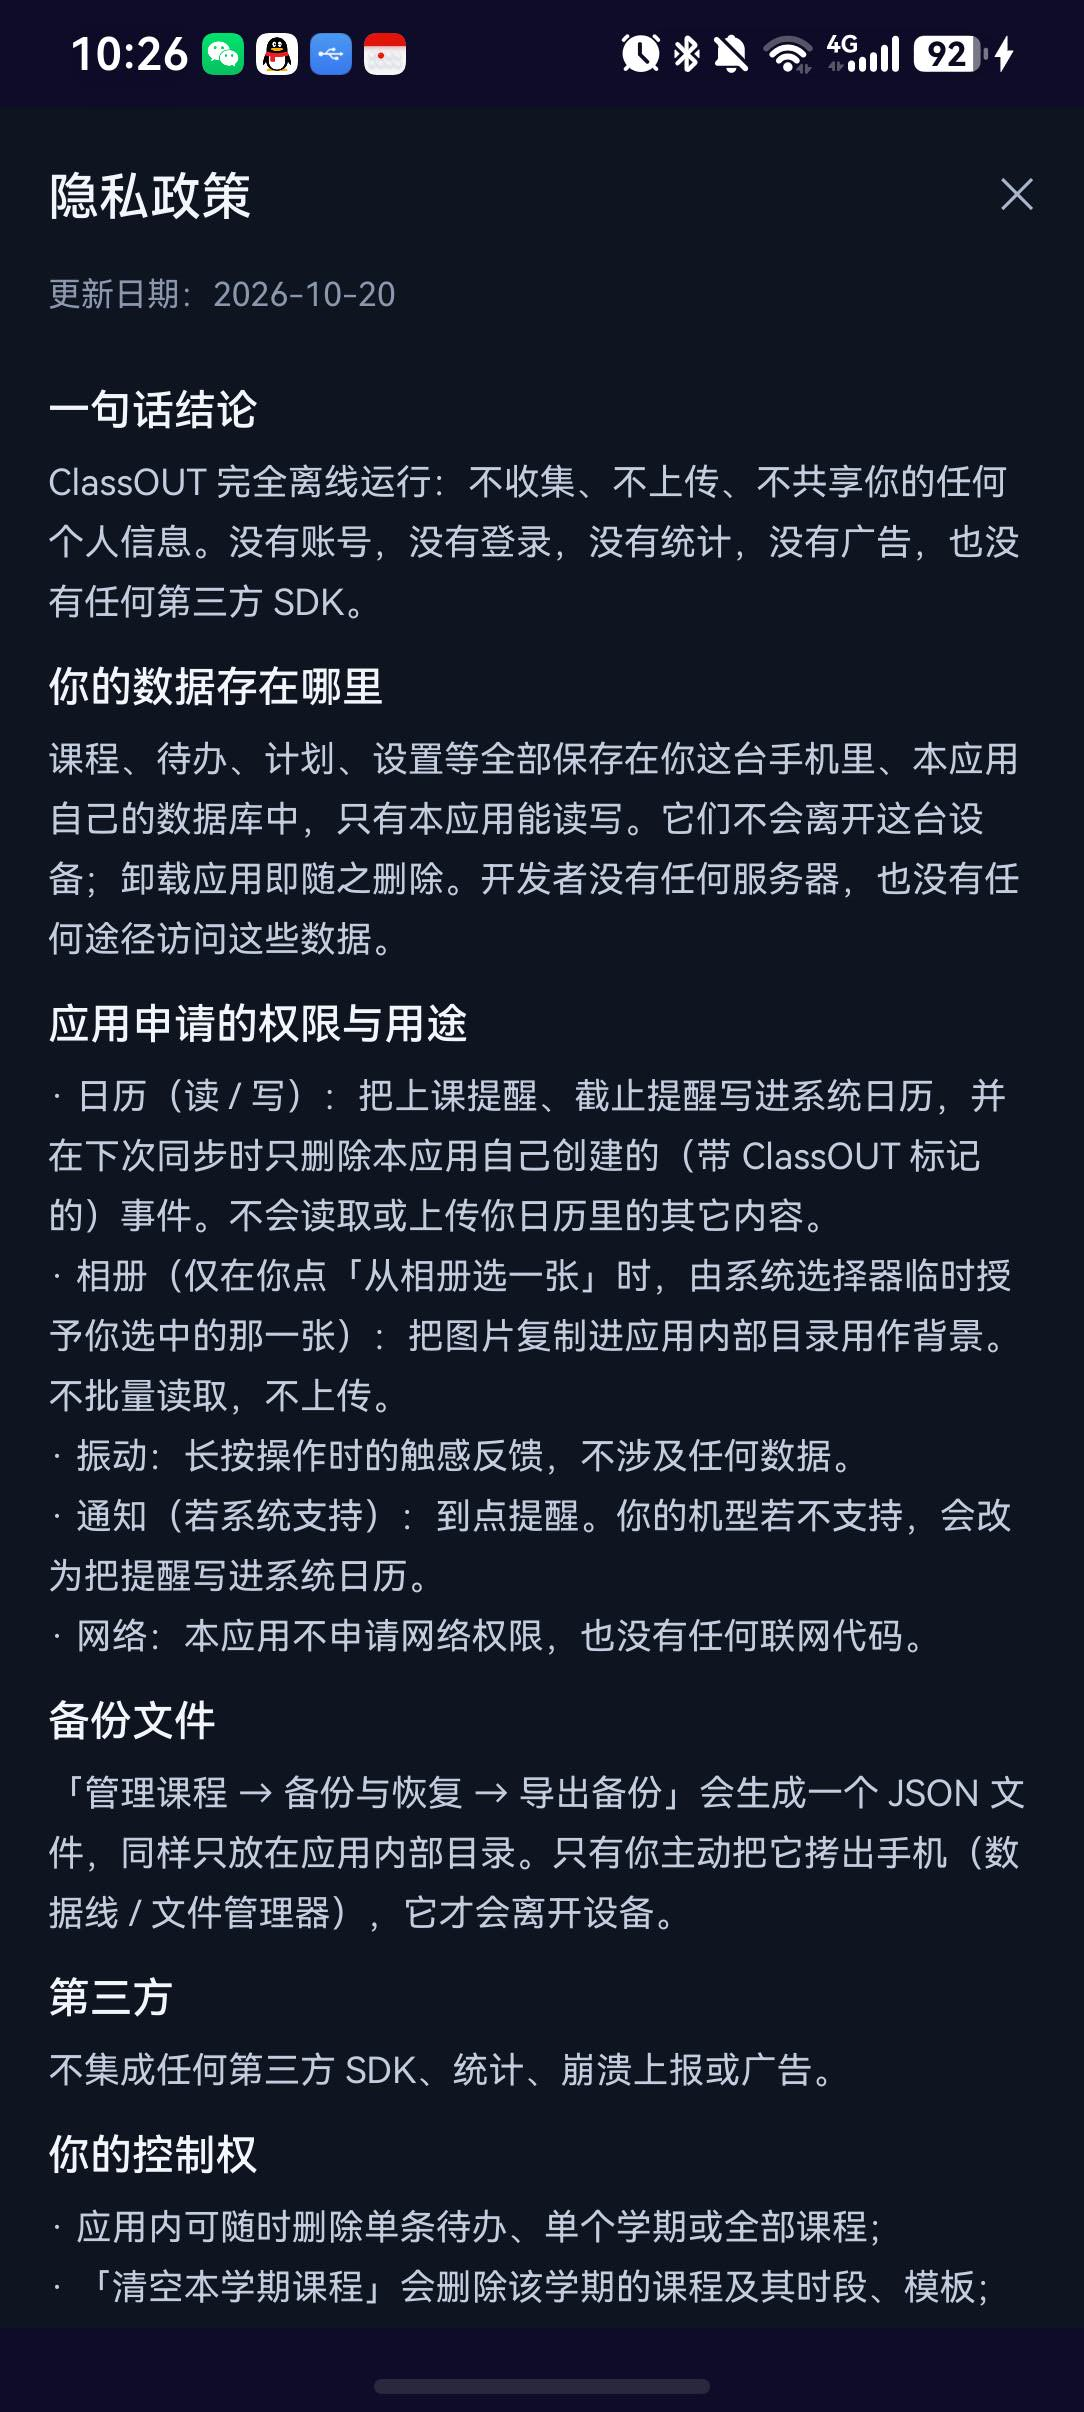
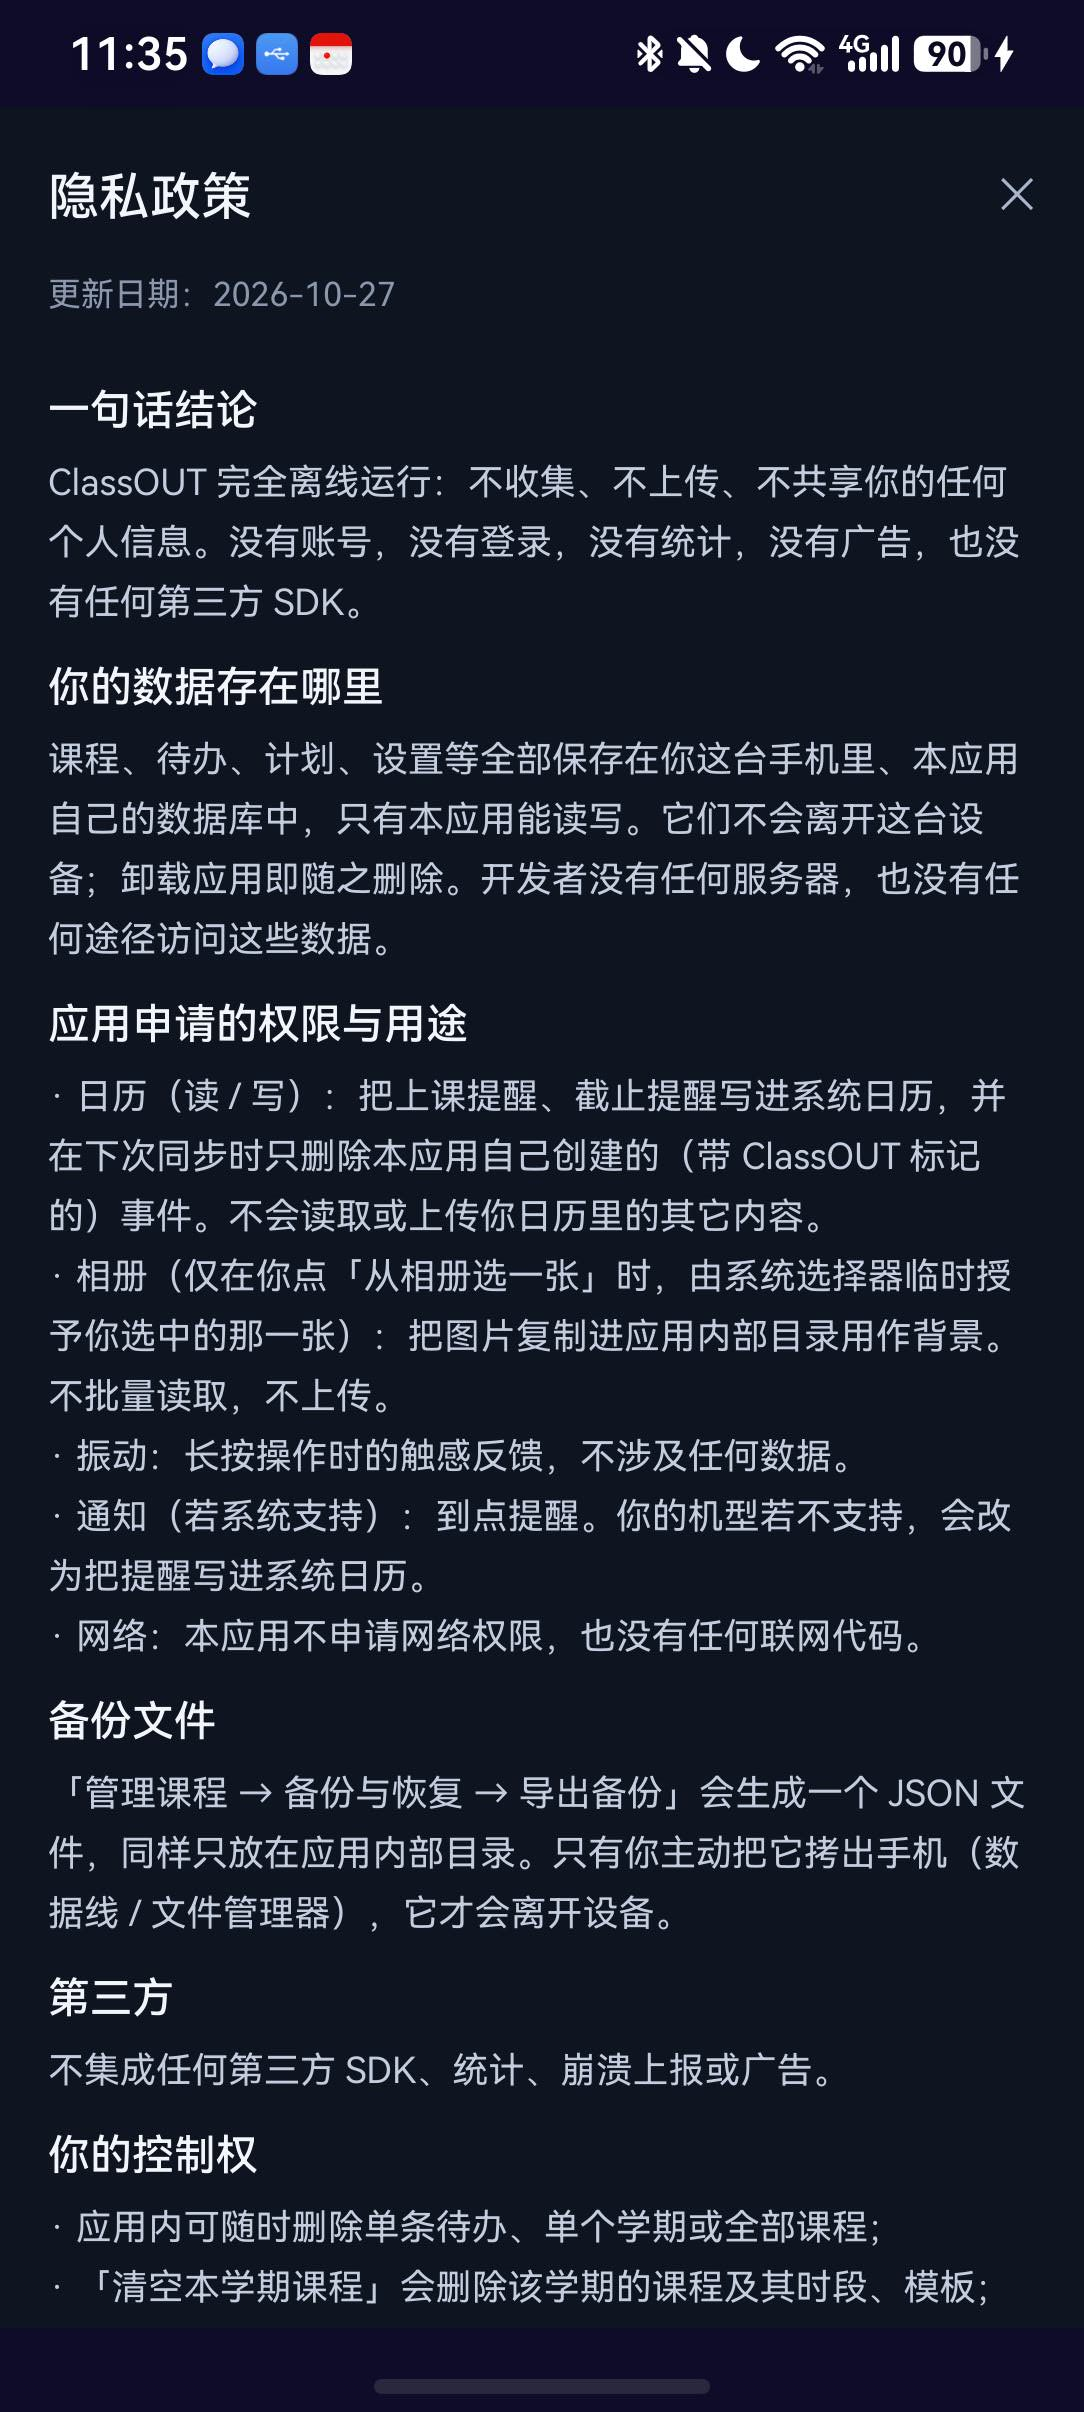
隐私政策对齐 AGC 主体（开发者=何麒）+ 补「撤回同意与投诉」，重拍截图
- PRIVACY.md / Privacy.ets：开发者 Chemica_ → 何麒（与 AGC 一致）；新增「撤回同意与投诉」
  （清除数据/卸载即撤回、导出 JSON 路径、投诉邮箱 15 个工作日）；更新日期 2026-10-27
- 首启弹窗脚注改成「开发者 何麒」；政策版本变化会重新征求同意（真机已验：重弹→同意→数据完好）
- 重拍 docs/manual/08-privacy.jpg、10-consent.jpg；重出 9:16 商店截图
- AGC-FILL.md：两个硬门槛解决/记录；备案=单机应用无需备案号；日历权限保持启动时申请（用户拍板）
- HANDOFF §134

Changed region(s): [[0.0913, 0.0, 0.3958, 0.0311], [0.5784, 0.0, 0.7915, 0.0311]]

diff --git a/AGC-FILL.md b/AGC-FILL.md
@@ -20,7 +20,7 @@
 | 1 | **发布包**（release 签名 .app） | ❌ 还没有发布证书/Profile | AGC 实名过了 → 申请**发布证书 + 发布 Profile** → 放进 `signing/release/` → 我跑 `sign-release.sh` |
 | 2 | **截图 9:16 / 1080×1920** | ✅ 已生成 `dist/store/phone-9x16/`（10 张，1080×1920，170–360 KB） | 直接上传，建议挑 6 张（见 §3.4） |
 | 3 | **应用版权证书**（手机必选） | ❌ 软著还在审 | 拿到证书后转成 **JPG/PNG/BMP**（AGC 不收 PDF），最多 10 张、每张 ≤15MB |
-| 4 | **隐私政策内容** | ⚠ 缺两项 | ① 政策里的开发者名称要与 AGC 主体一致；② 补「撤回同意 / 投诉渠道」条款（50104 §7.3 / §7.6） |
+| 4 | **隐私政策内容** | ✅ 已改好（2026-10-27） | 开发者改为 **何麒**（与 AGC 一致）；新增「撤回同意与投诉」一节（清除数据/卸载即撤回、导出 JSON、投诉邮箱 15 个工作日回复） |
 
 > 顺带纠正一件旧账：**我们这种没有网络权限的单机应用，不需要 APP 备案号**。
 > 50130 写明「单机应用 = 未通过连接公共互联网提供互联网信息服务的移动应用」，
@@ -98,13 +98,10 @@
 - 隐私政策：`https://gitee.com/the-person-on-the-tree/classout/blob/master/PRIVACY.md`
 - 隐私权利：`https://gitee.com/the-person-on-the-tree/classout/blob/master/PRIVACY_RIGHTS.md`
 - 用户协议：选填，可先空着；要的话可以后面用 AGC 的协议服务生成一个。
-- ⚠ 提交前必须做的两处政策修正（见 §0 #4）：
-  1. **开发者名称**：现在写的是「Chemica_」，AGC 主体显示「何麒」——
-     审核会比对「隐私政策里的开发者名称 vs AGC 开发者名称」，不一致直接驳回。
-     需要你确认 AGC 上"开发者"显示的是 **Chemica** 还是 **何麒**，我改成一致的那个
-     （两个都写也行：`开发者：何麒（Chemica）`）。
-  2. **撤回同意 / 投诉渠道**：政策里要有「怎么撤回同意、怎么投诉」的说明（50104 §7.3、§7.6）。
-     我准备加一节：卸载或在系统设置清除应用数据即可重置同意状态，投诉走 `harvapps@qq.com`。
+- ✅ 政策内容已按 50104 §7.1 / §7.3 / §7.6 改好（2026-10-27）：
+  - 开发者：**何麒**（与 AGC 开发者名称一致，审核会比对这一项）；
+  - 新增「撤回同意与投诉」：清除应用数据 / 卸载即撤回；导出 JSON 的路径；投诉邮箱与 15 个工作日时限；
+  - 政策更新日期 2026-10-27（同意状态按版本存，老用户会重新被问一次）。
 
 ### 2.8 隐私标签信息录入
 
@@ -157,11 +154,11 @@
 | 1.9 | 截图 ≥3 张、不重复/不模糊/不拉伸 | ✅ 新 9:16 套图 |
 | 1.14 | 介绍不得用"官方/权威/推荐/精品"、不得写没有的功能 | ✅ 文案已避开 |
 | 1.19 | 应用信息不得展示真实个人信息 | ✅ 截图是演练沙箱数据 |
-| 7.1 | 隐私政策含真实开发者信息，且与应用内一致 | ⚠ 开发者名称待统一 |
-| 7.3 | 政策里要有撤销同意/删除/查阅复制/投诉渠道 | ⚠ 待补"撤回同意" |
+| 7.1 | 隐私政策含真实开发者信息，且与应用内一致 | ✅ 开发者：何麒 |
+| 7.3 | 政策里要有撤销同意/删除/查阅复制/投诉渠道 | ✅ 已补「撤回同意与投诉」 |
 | 7.5 | 隐私弹窗要有明确的**同意**和**拒绝** | ✅「同意并继续 / 不同意并退出」 |
 | 7.5 三要素 | 未同意前不得读取个人信息/申请权限 | ✅ 已加首启闸门 |
-| 7.17 | 权限最小化、动态申请、拒绝后不退出、不循环弹窗 | ⚠ 日历权限在启动时申请，见下 |
+| 7.17 | 权限最小化、动态申请、拒绝后不退出、不循环弹窗 | ⚠ 日历权限在启动时申请；**用户已决定保持现状**（弹窗里已写明用途），见下 |
 | 7.2 | 第三方 SDK 逐一公示 | ✅ 没有 SDK |
 
 ### 风险：日历权限在启动时申请
@@ -169,19 +166,16 @@
 50104 §7.17 合规要求 4/5 说「未见对应功能就提前申请权限」不合规。我们的日历权限是在
 同意隐私政策后、启动流程里（同步提醒）申请的，用户还没主动点过"同步"。
 
-两条路：
-1. **保持现状**：弹窗里已经写明"为了把提醒写进系统日历会申请日历读写权限"，
-   且课表本来就是提醒功能的一部分 —— 多数审核能过。
-2. **改成懒申请**：首次进入「设置 → 日历同步」或点页头「⟳ 立即与日历同步」时才申请；
-   启动时静默跳过（提醒要等用户点一次才写）。更稳，但用户可能一直不点、提醒不生效。
-
-要改的话说一声，改动只涉及 `Index.init()` 里的 `syncReminders` 调用与设置页入口。
+**决定（2026-10-27）：保持现状。** 理由：隐私弹窗已明确写出"为了把提醒写进系统日历，
+会申请日历读写权限"，且课表提醒是应用的核心功能；拒绝授权后应用仍可正常使用（只是不写提醒）。
+若审核按 7.17 提出异议，再改成"用户点『立即与日历同步』时才申请"（改动只涉及
+`Index.init()` 里的 `syncReminders` 与设置页入口）。
 
 ---
 
 ## 4. 还需要你提供的
 
-1. AGC 上"开发者"显示的是 **Chemica** 还是 **何麒**？（决定隐私政策里写哪个）
-2. 日历权限：保持启动时申请，还是改成"用户点同步时才申请"？
+1. ~~AGC 开发者名称~~ → ✅ 已确认 **何麒**，政策已改。
+2. ~~日历权限策略~~ → ✅ 已决定**保持现状**。
 3. 发布证书 + 发布 Profile（等 AGC 实名通过后下载，放 `signing/release/`）。
-4. 软著/电子版权证书（等审核通过）。
+4. 软著/电子版权证书（等审核通过；应用版权证书只收 JPG/PNG/BMP）。

diff --git a/STORE.md b/STORE.md
@@ -25,7 +25,7 @@
 | 2 | 上架前 | 唯一包名 `com.chemica.classout` | ✅ | `AppScope/app.json5` 的 `bundleName`；**不能再改** |
 | 3 | 上架前 | 应用图标 1024 / 216 | ✅ | `docs/store/app-icon-1024.png`、`app-icon-216.png`（`python3 tools/make-icon.py` 可重生成） |
 | 4 | 上架前 | 应用包（.app ≤ 4GB） | ⚠ | 已能构建：`build/outputs/default/ClassOUT-default-unsigned.app`（388 KB，**未签名**）；见 §5 |
-| 5 | 上架前 | 隐私政策网址（可访问） | ✅ | <https://gitee.com/the-person-on-the-tree/classout/blob/master/PRIVACY.md>（公网可开，已验证 200） |
+| 5 | 上架前 | 隐私政策网址（可访问） | ✅ | <https://gitee.com/the-person-on-the-tree/classout/blob/master/PRIVACY.md>（公网 200；**开发者已改为何麒**，与 AGC 一致；含「撤回同意与投诉」，2026-10-27） |
 | 6 | 上架前 | 隐私权利网址（删除/导出入口） | ✅ | <https://gitee.com/the-person-on-the-tree/classout/blob/master/PRIVACY_RIGHTS.md>（本轮新增，200） |
 | 7 | 上架前 | 权限说明 / 隐私标签 | ✅ | 4 个权限的用途都在 `entry/src/main/module.json5` 的 `reason` + `string.json`；对照表见 §3 |
 | 8 | 上架前 | 电子版权 / 应用版权证书 | ⏳ **材料已备** | `dist/copyright/`：源程序 PDF（60 页）+ 用户手册 PDF（22 页）+ 申请表信息；等中国版权/易版权实名审核通过就能提交（还差两处待填，见 §7） |
